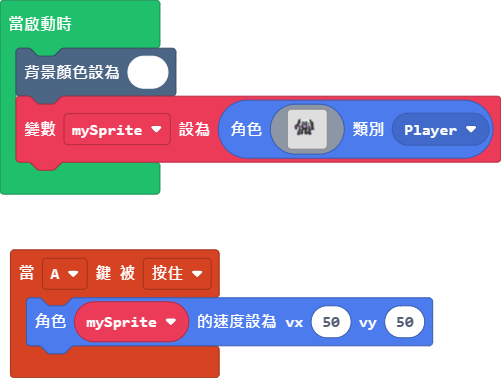
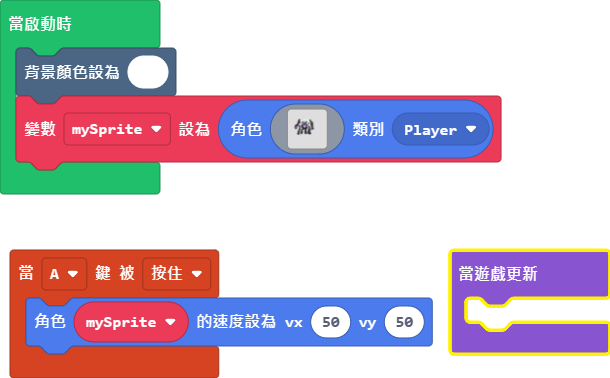
擬採阿

diff --git a/main.ts b/main.ts
@@ -69,3 +69,6 @@ mySprite = sprites.create(img`
     ................................................................
     ................................................................
     `, SpriteKind.Player)
+game.onUpdate(function () {
+	
+})
